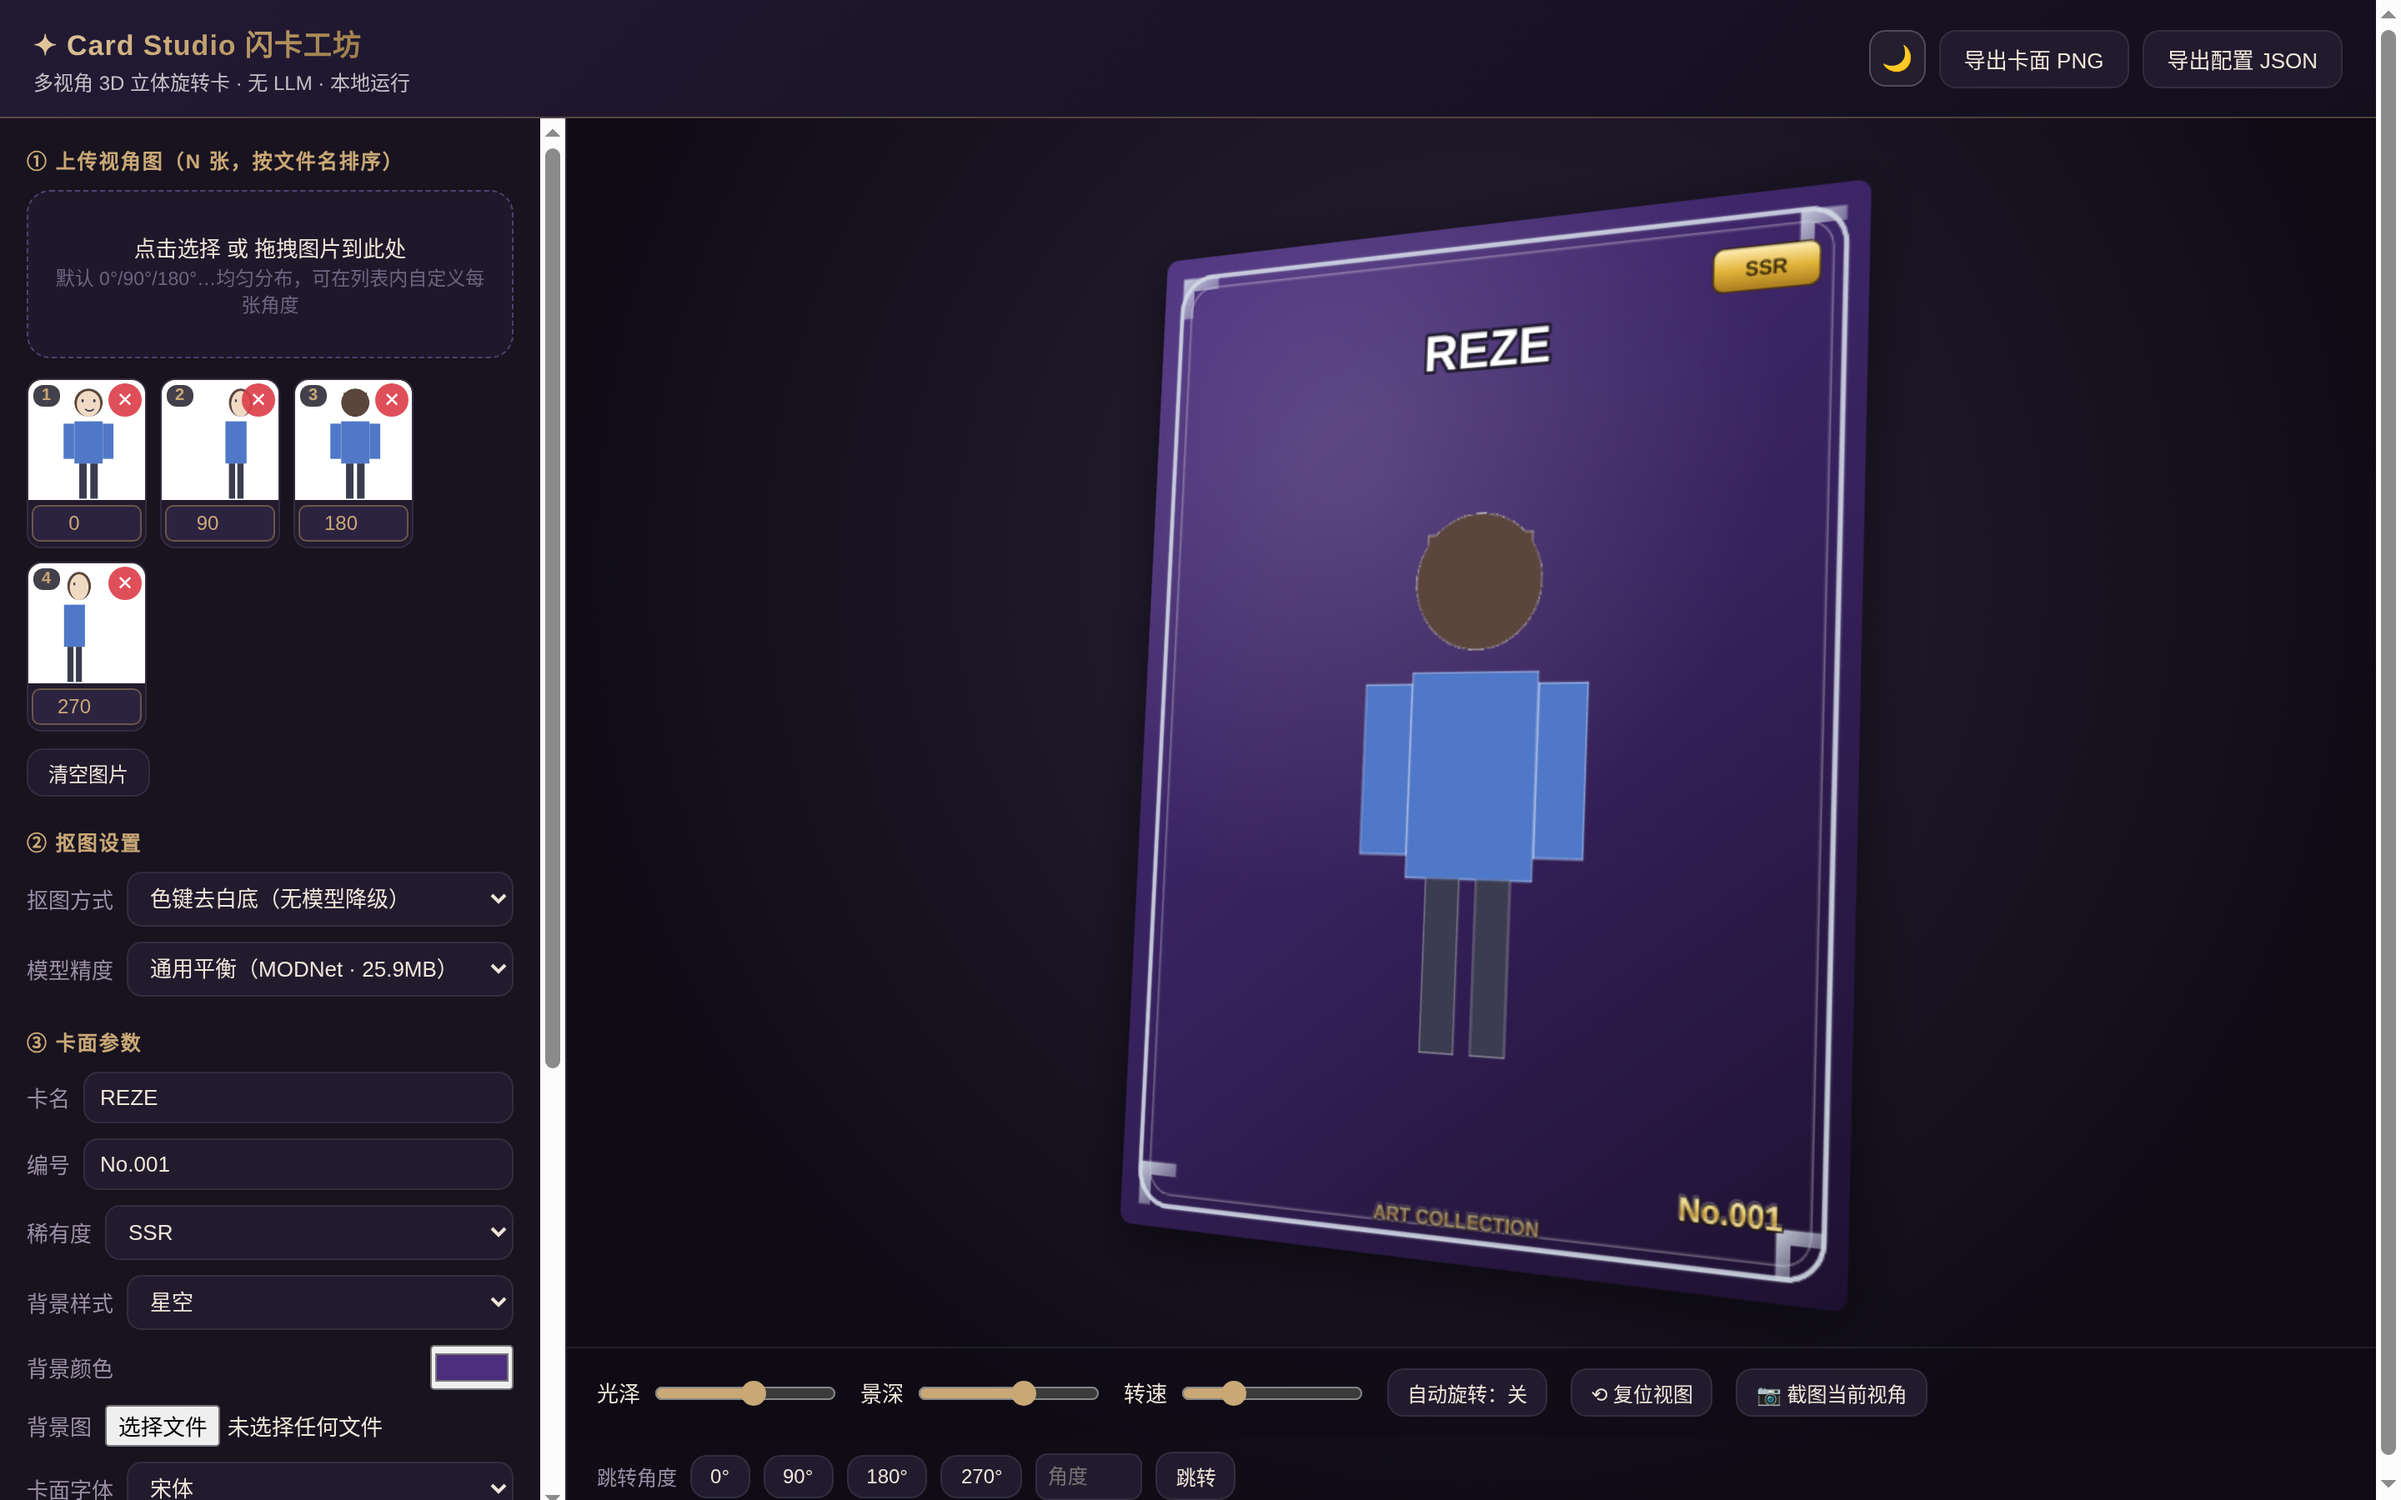
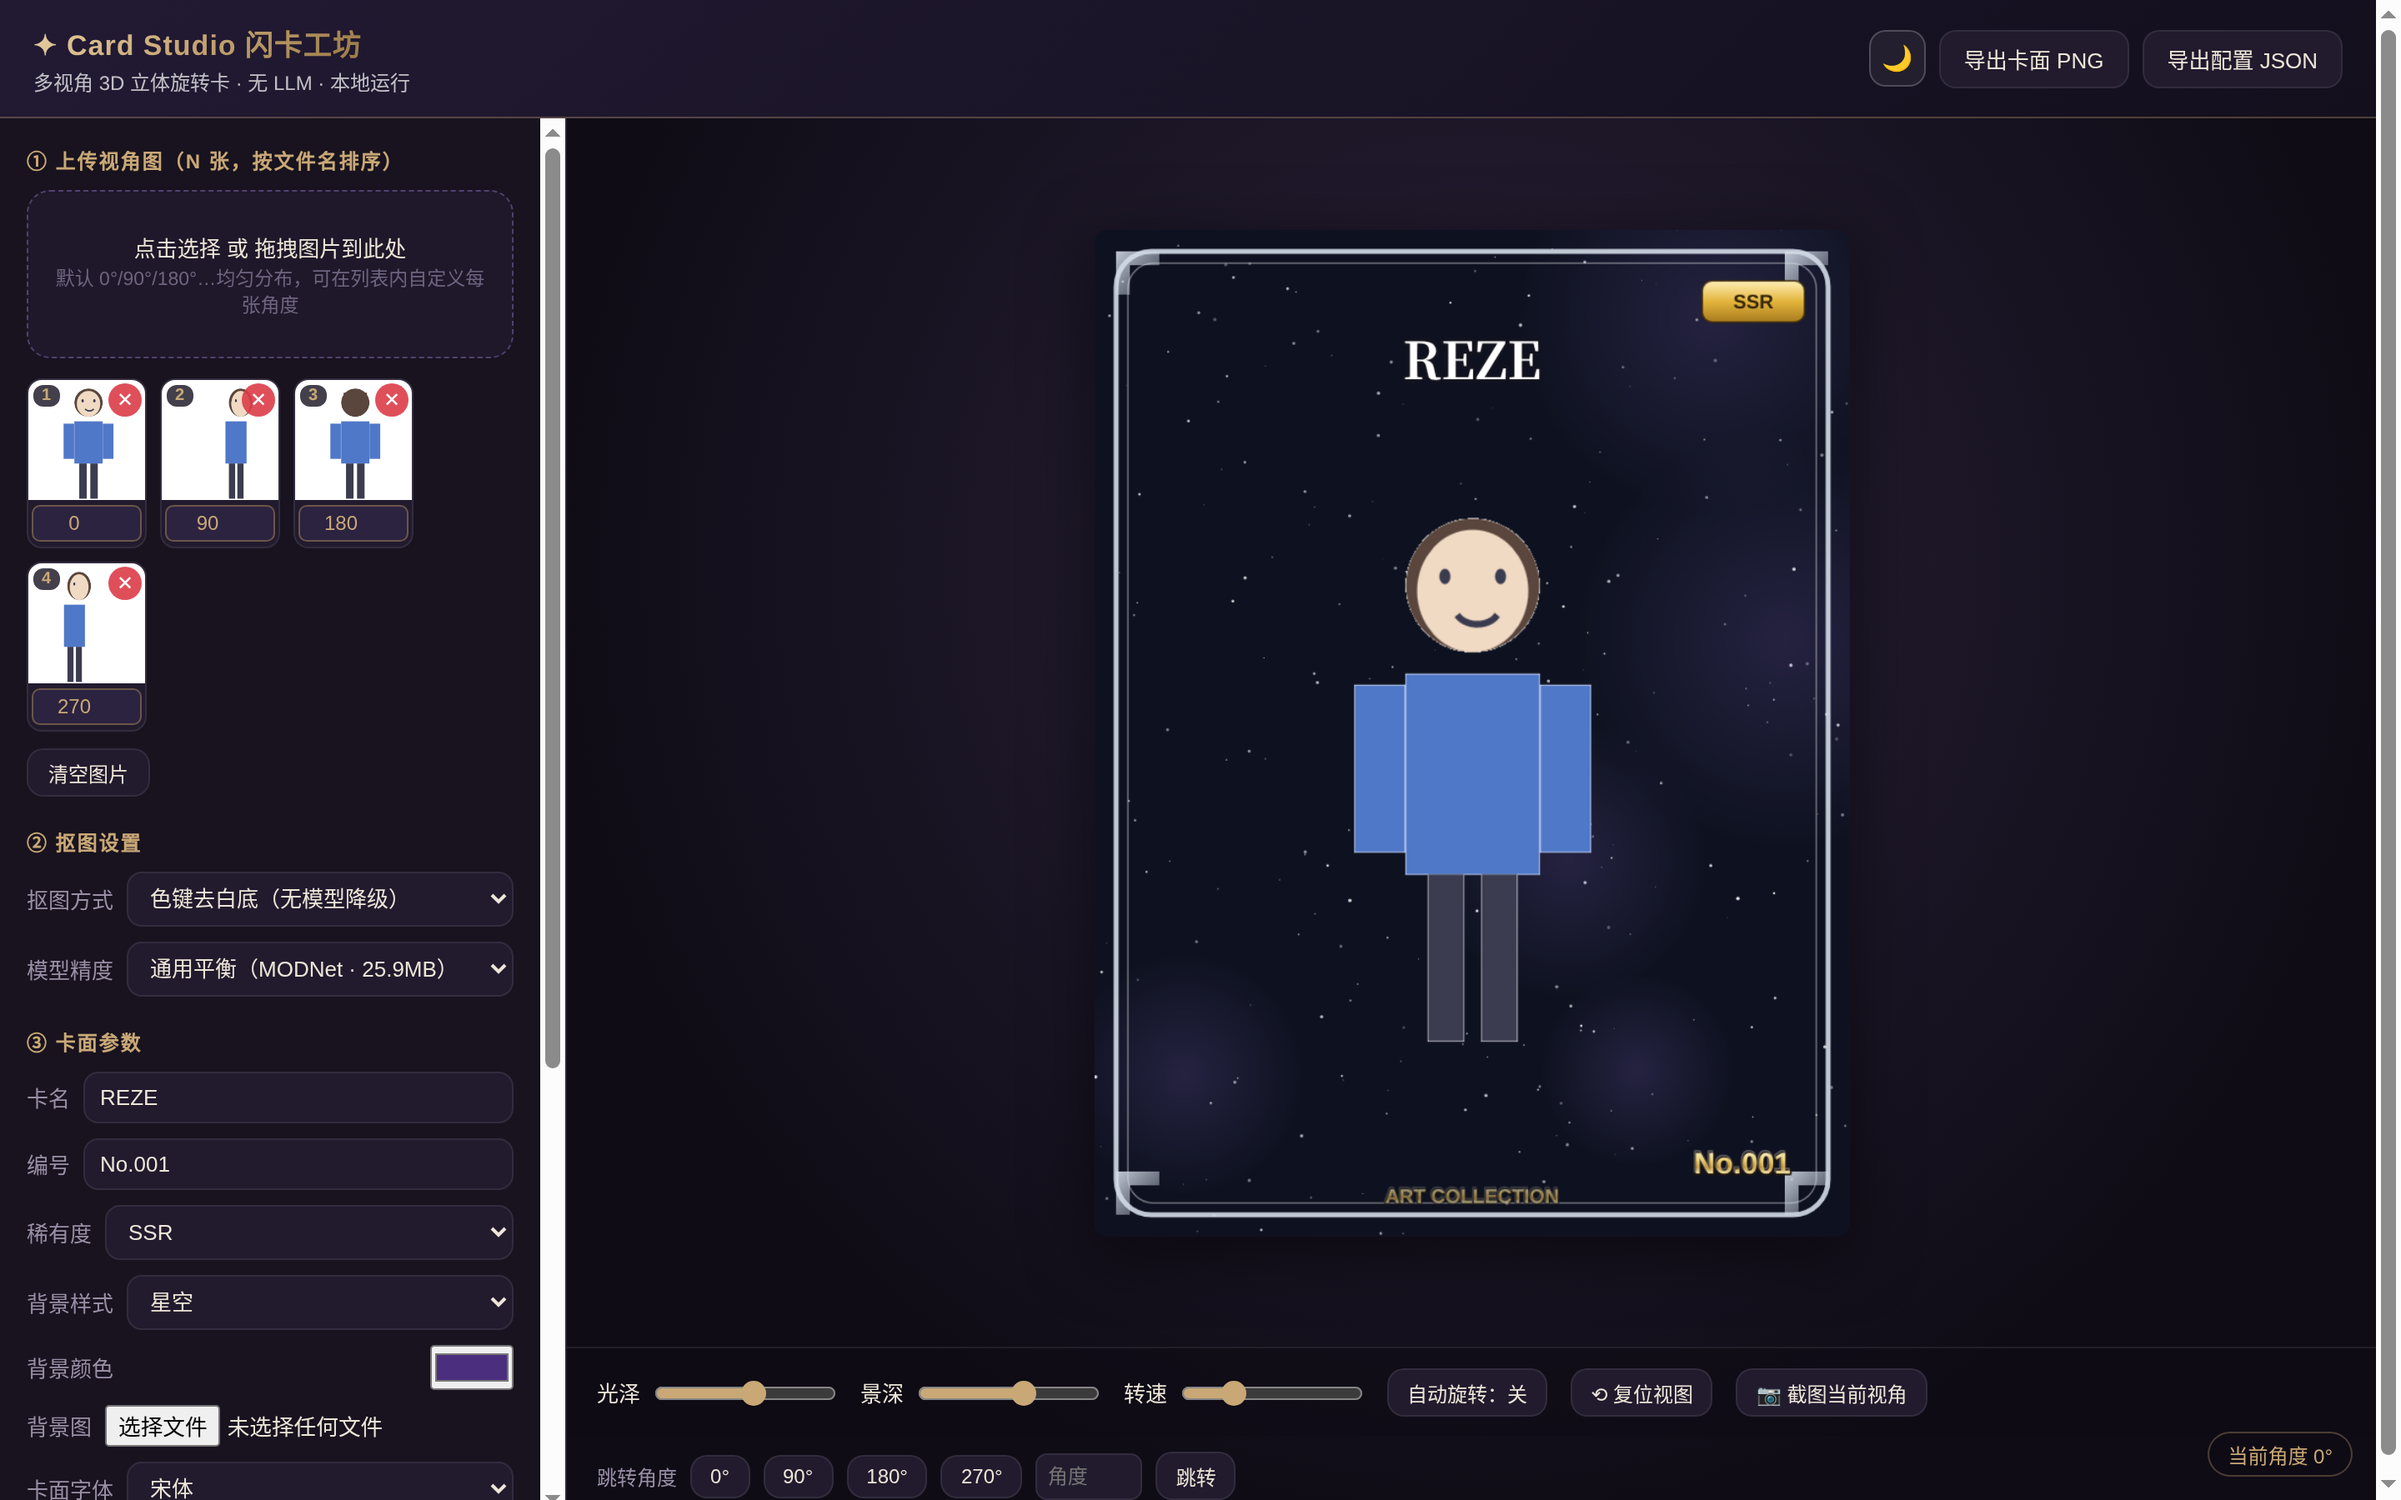
docs(readme): replace shot 4 with real starfield-variant generation

Changed region(s): [[0.4375, 0.1244, 0.7812, 0.8711], [0.9375, 0.9644, 0.9688, 0.9956]]

diff --git a/README.md b/README.md
@@ -42,9 +42,9 @@
 
 *图 3 · 卡面参数面板：背景样式、字体、卡名字色、边框样式、角饰、主体大小、随机种子等选项。*
 
-![旋转 3D 预览视角](https://gcore.jsdelivr.net/gh/ReSerendipity/Card-Studio@main/docs/assets/readme-card-studio-4-rotated-20261026.png)
+![星空背景变体：银边白字卡面](https://gcore.jsdelivr.net/gh/ReSerendipity/Card-Studio@main/docs/assets/readme-card-studio-4-rotated-20261026.png)
 
-*图 4 · 旋转预览：相邻视角帧以环形插值呈现，本图为背面视角（180°）。*
+*图 4 · 另一组参数：星空背景、银边、白色卡名字、宋体；底部光泽/景深/转速滑块与角度跳转按钮为真实运行控件。*
 
 ![模块与数据流架构](https://gcore.jsdelivr.net/gh/ReSerendipity/Card-Studio@main/docs/assets/readme-card-studio-architecture.svg)
 
@@ -160,9 +160,9 @@ Card Studio is a browser-based, fully client-side generator for multi-view 3D "h
 
 *Fig 3 · Card parameters: background style, font, name color, border, corners, subject scale, seed.*
 
-![Rotated 3D preview](https://gcore.jsdelivr.net/gh/ReSerendipity/Card-Studio@main/docs/assets/readme-card-studio-4-rotated-20261026.png)
+![Starfield variant: silver border, white name](https://gcore.jsdelivr.net/gh/ReSerendipity/Card-Studio@main/docs/assets/readme-card-studio-4-rotated-20261026.png)
 
-*Fig 4 · Rotated preview: ring-interpolated between adjacent views; this frame shows the back (180°) view.*
+*Fig 4 · Another parameter set: starfield background, silver border, white card name, serif font; bottom gloss/depth/speed sliders and angle-jump buttons are live controls.*
 
 ![Module and data-flow architecture](https://gcore.jsdelivr.net/gh/ReSerendipity/Card-Studio@main/docs/assets/readme-card-studio-architecture.svg)
 
